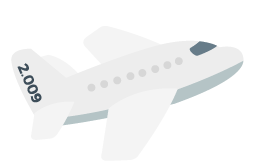
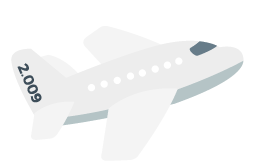
added window highscore

Changed region(s): [[0.4588, 0.3274, 0.6595, 0.4762], [0.3154, 0.4464, 0.4301, 0.5655]]

diff --git a/js/cupsandballs.js b/js/cupsandballs.js
@@ -44,6 +44,24 @@ function zero() {
   $('.c3').css({top: 60, left: 110});
 }
 
+function getPlaneWindowColor() {
+  $.get(url + '/highscore', function(data) {
+    planeWindowColor = data.currentColor;
+    updateWindowColor(data.currentColor);
+  });
+}
+
+function updateWindowColor(color) {
+  $pwc = $('.plane-window-color')
+  if (color) {
+    $pwc.css('backgroundColor', '')
+    $pwc.removeClass();
+    $pwc.addClass('plane-window-color f '+ color);
+  } else {
+    $pwc.css('backgroundColor', '#333')
+  }
+}
+
 function showUnderCup(cup, s) {
   $cup = $('.c' + cup)
   runSequence($cup, r1.slice(0), s)
@@ -279,7 +297,8 @@ function sendHighScore(color) {
     color: color
   }
   $.get(url + '/markhighscore', data, function(data) {
-    console.log(data);
+    console.log('Congratulations! Although if you\'re reading this, I might be concerned...');
+    updateWindowColor(color);
   });
 }
 
@@ -329,6 +348,7 @@ function addListeners() {
 }
 
 function initCupsAndBalls() {
+  getPlaneWindowColor();
   addListeners();
   zero();
 }

diff --git a/css/sidebar.css b/css/sidebar.css
@@ -161,6 +161,19 @@
   cursor: pointer;
 }
 
+.plane-window-color {
+  width: 60px;
+  height: 10px;
+  top: 42px;
+  left: 60px;    
+  margin: 0 !important;
+  -webkit-transform: rotate(-20deg); /* Safari */
+  transform: rotate(-20deg);
+  position: absolute;
+  animation: planeinwindow 2s 1 ease-out;
+  -webkit-animation: planeinwindow 2s 1 ease-out;
+}
+
 .cave {
   width: 180px;
   height: 150px;
@@ -828,6 +841,28 @@
     100% {
       top: 12px;
       left: 30px;
+    }
+}
+
+@-webkit-keyframes planeinwindow {
+    0% {
+      top: 60px;
+      left: -150px;
+    }
+    100% {
+      top: 42px;
+      left: 60px;
+    }
+}
+
+@keyframes planeinwindow {
+    0% {
+      top: 60px;
+      left: -150px;
+    }
+    100% {
+      top: 42px;
+      left: 60px;
     }
 }
 

diff --git a/js/banner_markup.js b/js/banner_markup.js
@@ -14,6 +14,7 @@ var banner_markup = '<div class="vertical-background-top"></div> \
     <div class="cloud cloud2"></div> \
     <div class="cloud cloud3"></div> \
     <div class="cloud cloud4"></div> \
+    <div class="f"><div class="plane-window-color"></div></div> \
     <div class="plane"></div> \
     <!-- \
     <div class="photo1"></div> \
